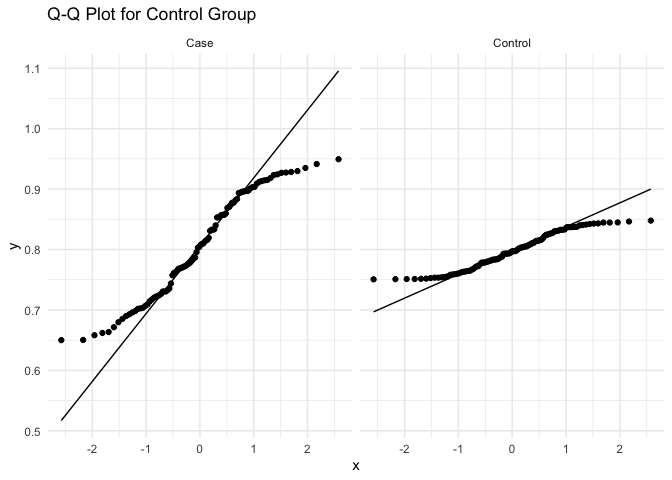
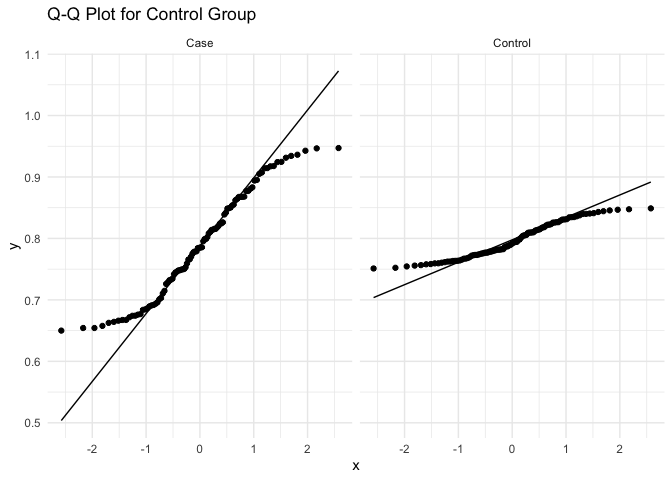
glm summary

diff --git a/README.md b/README.md
@@ -228,8 +228,8 @@ head(hrv_summary)
     ## # A tibble: 2 × 4
     ##   Group   Mean_RR   SDNN  RMSSD
     ##   <chr>     <dbl>  <dbl>  <dbl>
-    ## 1 Case      0.806 0.0883 0.128 
-    ## 2 Control   0.802 0.0289 0.0405
+    ## 1 Case      0.813 0.0890 0.124 
+    ## 2 Control   0.801 0.0286 0.0426
 
 - Plot HRV data showing RR interval variability between groups
 
@@ -280,7 +280,7 @@ print(shapiro_test_control)
     ##  Shapiro-Wilk normality test
     ## 
     ## data:  hrv_data$RR_Interval[hrv_data$Group == "Control"]
-    ## W = 0.9514, p-value = 0.001027
+    ## W = 0.95888, p-value = 0.003348
 
 ``` r
 print(shapiro_test_case)
@@ -290,7 +290,7 @@ print(shapiro_test_case)
     ##  Shapiro-Wilk normality test
     ## 
     ## data:  hrv_data$RR_Interval[hrv_data$Group == "Case"]
-    ## W = 0.94141, p-value = 0.0002353
+    ## W = 0.93822, p-value = 0.0001503
 
 - Decision on statistical test based on normality assessment
 - If normality is not rejected, use t-test; otherwise, consider
@@ -307,13 +307,63 @@ print(t_test_result)
     ##  Welch Two Sample t-test
     ## 
     ## data:  RR_Interval by Group
-    ## t = 0.44795, df = 120.02, p-value = 0.655
+    ## t = 1.2967, df = 119.3, p-value = 0.1973
     ## alternative hypothesis: true difference in means between group Case and group Control is not equal to 0
     ## 95 percent confidence interval:
-    ##  -0.01423971  0.02256698
+    ##  -0.006386551  0.030622218
     ## sample estimates:
     ##    mean in group Case mean in group Control 
-    ##             0.8061329             0.8019692
+    ##             0.8127424             0.8006246
+
+## Generalised linear model (GLM)
+
+In this section of our analysis, we employ a Generalized Linear Model
+(GLM) as a more sophisticated approach to analyzing our data, as opposed
+to relying solely on a t-test. The example of GLM framework is chosen
+for several reasons:
+
+1.  **Incorporation of Multiple Covariates**: Unlike the t-test, which
+    is limited to comparing means between two groups, GLM allows us to
+    account for the influence of multiple covariates simultaneously.
+    This is crucial in our study, as we’re interested in understanding
+    how factors such as age (`Age_day`), sex (`Sex`), and treatment type
+    (`Treatment`) might impact Heart Rate Variability (HRV), alongside
+    the primary variable of interest (Group).
+
+2.  **Flexibility in Modeling Different Types of Data**: GLM extends the
+    general linear model to allow for response variables that have error
+    distribution models other than a normal distribution. This makes it
+    suitable for a wide range of data types and link functions,
+    providing a more accurate analysis that aligns with the underlying
+    data distribution.
+
+3.  **Ability to Handle Non-linear Relationships**: Through the use of
+    link functions, GLMs can model relationships between the predictor
+    and response variables that are not necessarily linear. This
+    capability is particularly important in biomedical data, where many
+    relationships are complex and non-linear.
+
+4.  **Direct Estimation of Effect Size and Significance**: GLMs provide
+    direct estimates of the effect size for each covariate, including
+    confidence intervals and p-values, making it easier to interpret the
+    impact of each factor on the response variable. This comprehensive
+    insight is invaluable in discerning not just if there is an effect,
+    but how strong that effect is, and how confidently we can assert its
+    presence.
+
+5.  **Improved Precision and Power**: By adjusting for additional
+    covariates that might influence the response variable, GLMs can
+    reduce unexplained variability in the data. This leads to more
+    precise estimates of the effects of interest and potentially
+    increases the statistical power of the analysis.
+
+By leveraging a GLM, we’re not just comparing group means; we’re
+constructing a more nuanced understanding of how various factors
+contribute to differences in RR intervals, providing a deeper insight
+into the dynamics of heart rate variability. This approach allows us to
+make more informed conclusions about the data, supported by a robust
+statistical framework that accounts for the multifaceted nature of
+biological phenomena.
 
 ## Covariate data
 
@@ -335,14 +385,12 @@ head(hrv_data)
 ```
 
     ##   RR_Interval   Group Sample Age_day Sex Treatment
-    ## 1   0.8279636 Control      1      30   1         b
-    ## 2   0.8143300 Control      2      14   1         a
-    ## 3   0.8198734 Control      3      50   1         b
-    ## 4   0.7569344 Control      4      13   0         b
-    ## 5   0.7981791 Control      5       2   0         b
-    ## 6   0.7765258 Control      6      41   1         a
-
-## Gneralised linear model (GLM)
+    ## 1   0.8151302 Control      1      30   1         b
+    ## 2   0.8243805 Control      2      14   1         a
+    ## 3   0.8071691 Control      3      50   1         b
+    ## 4   0.7806285 Control      4      13   0         b
+    ## 5   0.7576811 Control      5       2   0         b
+    ## 6   0.8473233 Control      6      41   1         a
 
 ``` r
 # Convert necessary factors
@@ -367,24 +415,24 @@ summary(glm_model)
     ## 
     ## Deviance Residuals: 
     ##       Min         1Q     Median         3Q        Max  
-    ## -0.149301  -0.037208   0.001471   0.037208   0.144497  
+    ## -0.167350  -0.032757   0.000275   0.043047   0.147108  
     ## 
     ## Coefficients:
     ##                Estimate Std. Error t value Pr(>|t|)    
-    ## (Intercept)   0.8011963  0.0139504  57.432   <2e-16 ***
-    ## GroupControl -0.0052675  0.0094920  -0.555    0.580    
-    ## Age_day       0.0000699  0.0002907   0.240    0.810    
-    ## Sex1          0.0130778  0.0095263   1.373    0.171    
-    ## Treatmentb   -0.0036929  0.0119235  -0.310    0.757    
-    ## Treatmentc   -0.0025624  0.0119909  -0.214    0.831    
+    ## (Intercept)   0.7950930  0.0138777  57.293   <2e-16 ***
+    ## GroupControl -0.0084690  0.0094426  -0.897   0.3709    
+    ## Age_day       0.0002512  0.0002892   0.869   0.3861    
+    ## Sex1         -0.0007963  0.0094767  -0.084   0.9331    
+    ## Treatmentb    0.0009396  0.0118614   0.079   0.9369    
+    ## Treatmentc    0.0230487  0.0119285   1.932   0.0548 .  
     ## ---
     ## Signif. codes:  0 '***' 0.001 '**' 0.01 '*' 0.05 '.' 0.1 ' ' 1
     ## 
-    ## (Dispersion parameter for gaussian family taken to be 0.00435928)
+    ## (Dispersion parameter for gaussian family taken to be 0.004314023)
     ## 
-    ##     Null deviance: 0.85619  on 199  degrees of freedom
-    ## Residual deviance: 0.84570  on 194  degrees of freedom
-    ## AIC: -511.61
+    ##     Null deviance: 0.87198  on 199  degrees of freedom
+    ## Residual deviance: 0.83692  on 194  degrees of freedom
+    ## AIC: -513.69
     ## 
     ## Number of Fisher Scoring iterations: 2
 
@@ -498,3 +546,14 @@ characteristics:
 - **`simulate_rr_intervals_group`**: Generates RR intervals for a
   specified group, incorporating baseline RR intervals and variability,
   useful for simulating control and case groups in our analysis.
+
+### README
+
+Finally, automatically convert this document to the GitHub project level
+README.
+
+``` r
+file.copy("ecg_vcurrent.md", "README.md", overwrite = TRUE)
+```
+
+    ## [1] TRUE

diff --git a/ecg_vcurrent.md b/ecg_vcurrent.md
@@ -228,8 +228,8 @@ head(hrv_summary)
     ## # A tibble: 2 × 4
     ##   Group   Mean_RR   SDNN  RMSSD
     ##   <chr>     <dbl>  <dbl>  <dbl>
-    ## 1 Case      0.805 0.0846 0.120 
-    ## 2 Control   0.797 0.0303 0.0390
+    ## 1 Case      0.790 0.0868 0.128 
+    ## 2 Control   0.797 0.0286 0.0387
 
 - Plot HRV data showing RR interval variability between groups
 
@@ -280,7 +280,7 @@ print(shapiro_test_control)
     ##  Shapiro-Wilk normality test
     ## 
     ## data:  hrv_data$RR_Interval[hrv_data$Group == "Control"]
-    ## W = 0.941, p-value = 0.0002219
+    ## W = 0.94017, p-value = 0.0001976
 
 ``` r
 print(shapiro_test_case)
@@ -290,7 +290,7 @@ print(shapiro_test_case)
     ##  Shapiro-Wilk normality test
     ## 
     ## data:  hrv_data$RR_Interval[hrv_data$Group == "Case"]
-    ## W = 0.95213, p-value = 0.001149
+    ## W = 0.95439, p-value = 0.001632
 
 - Decision on statistical test based on normality assessment
 - If normality is not rejected, use t-test; otherwise, consider
@@ -307,13 +307,63 @@ print(t_test_result)
     ##  Welch Two Sample t-test
     ## 
     ## data:  RR_Interval by Group
-    ## t = 0.91009, df = 123.96, p-value = 0.3645
+    ## t = -0.77724, df = 120.28, p-value = 0.4385
     ## alternative hypothesis: true difference in means between group Case and group Control is not equal to 0
     ## 95 percent confidence interval:
-    ##  -0.00960885  0.02596676
+    ##  -0.02520011  0.01099221
     ## sample estimates:
     ##    mean in group Case mean in group Control 
-    ##              0.805388              0.797209
+    ##             0.7895004             0.7966043
+
+## Generalised linear model (GLM)
+
+In this section of our analysis, we employ a Generalized Linear Model
+(GLM) as a more sophisticated approach to analyzing our data, as opposed
+to relying solely on a t-test. The example of GLM framework is chosen
+for several reasons:
+
+1.  **Incorporation of Multiple Covariates**: Unlike the t-test, which
+    is limited to comparing means between two groups, GLM allows us to
+    account for the influence of multiple covariates simultaneously.
+    This is crucial in our study, as we’re interested in understanding
+    how factors such as age (`Age_day`), sex (`Sex`), and treatment type
+    (`Treatment`) might impact Heart Rate Variability (HRV), alongside
+    the primary variable of interest (Group).
+
+2.  **Flexibility in Modeling Different Types of Data**: GLM extends the
+    general linear model to allow for response variables that have error
+    distribution models other than a normal distribution. This makes it
+    suitable for a wide range of data types and link functions,
+    providing a more accurate analysis that aligns with the underlying
+    data distribution.
+
+3.  **Ability to Handle Non-linear Relationships**: Through the use of
+    link functions, GLMs can model relationships between the predictor
+    and response variables that are not necessarily linear. This
+    capability is particularly important in biomedical data, where many
+    relationships are complex and non-linear.
+
+4.  **Direct Estimation of Effect Size and Significance**: GLMs provide
+    direct estimates of the effect size for each covariate, including
+    confidence intervals and p-values, making it easier to interpret the
+    impact of each factor on the response variable. This comprehensive
+    insight is invaluable in discerning not just if there is an effect,
+    but how strong that effect is, and how confidently we can assert its
+    presence.
+
+5.  **Improved Precision and Power**: By adjusting for additional
+    covariates that might influence the response variable, GLMs can
+    reduce unexplained variability in the data. This leads to more
+    precise estimates of the effects of interest and potentially
+    increases the statistical power of the analysis.
+
+By leveraging a GLM, we’re not just comparing group means; we’re
+constructing a more nuanced understanding of how various factors
+contribute to differences in RR intervals, providing a deeper insight
+into the dynamics of heart rate variability. This approach allows us to
+make more informed conclusions about the data, supported by a robust
+statistical framework that accounts for the multifaceted nature of
+biological phenomena.
 
 ## Covariate data
 
@@ -335,14 +385,12 @@ head(hrv_data)
 ```
 
     ##   RR_Interval   Group Sample Age_day Sex Treatment
-    ## 1   0.7783174 Control      1      30   1         b
-    ## 2   0.7554708 Control      2      14   1         a
-    ## 3   0.7506087 Control      3      50   1         b
-    ## 4   0.8044246 Control      4      13   0         b
-    ## 5   0.7518773 Control      5       2   0         b
-    ## 6   0.7539838 Control      6      41   1         a
-
-## Gneralised linear model (GLM)
+    ## 1   0.7583407 Control      1      30   1         b
+    ## 2   0.8466655 Control      2      14   1         a
+    ## 3   0.8342634 Control      3      50   1         b
+    ## 4   0.8180164 Control      4      13   0         b
+    ## 5   0.7820329 Control      5       2   0         b
+    ## 6   0.8264069 Control      6      41   1         a
 
 ``` r
 # Convert necessary factors
@@ -367,24 +415,24 @@ summary(glm_model)
     ## 
     ## Deviance Residuals: 
     ##       Min         1Q     Median         3Q        Max  
-    ## -0.157205  -0.035246  -0.001313   0.039479   0.152591  
+    ## -0.138408  -0.033657  -0.007378   0.033229   0.164142  
     ## 
     ## Coefficients:
     ##                Estimate Std. Error t value Pr(>|t|)    
-    ## (Intercept)   0.8067797  0.0134984  59.768   <2e-16 ***
-    ## GroupControl -0.0068526  0.0091845  -0.746    0.457    
-    ## Age_day      -0.0001670  0.0002813  -0.593    0.554    
-    ## Sex1         -0.0076720  0.0092177  -0.832    0.406    
-    ## Treatmentb    0.0087743  0.0115372   0.761    0.448    
-    ## Treatmentc    0.0083698  0.0116025   0.721    0.472    
+    ## (Intercept)   8.012e-01  1.372e-02  58.404   <2e-16 ***
+    ## GroupControl  7.113e-03  9.334e-03   0.762    0.447    
+    ## Age_day      -6.639e-05  2.859e-04  -0.232    0.817    
+    ## Sex1         -1.253e-02  9.368e-03  -1.337    0.183    
+    ## Treatmentb   -5.034e-03  1.173e-02  -0.429    0.668    
+    ## Treatmentc   -6.825e-03  1.179e-02  -0.579    0.563    
     ## ---
     ## Signif. codes:  0 '***' 0.001 '**' 0.01 '*' 0.05 '.' 0.1 ' ' 1
     ## 
-    ## (Dispersion parameter for gaussian family taken to be 0.00408141)
+    ## (Dispersion parameter for gaussian family taken to be 0.004215451)
     ## 
-    ##     Null deviance: 0.80293  on 199  degrees of freedom
-    ## Residual deviance: 0.79179  on 194  degrees of freedom
-    ## AIC: -524.78
+    ##     Null deviance: 0.82957  on 199  degrees of freedom
+    ## Residual deviance: 0.81780  on 194  degrees of freedom
+    ## AIC: -518.32
     ## 
     ## Number of Fisher Scoring iterations: 2
 
